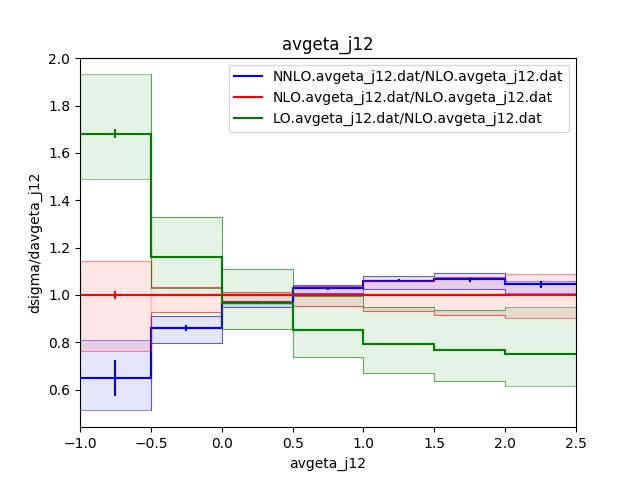
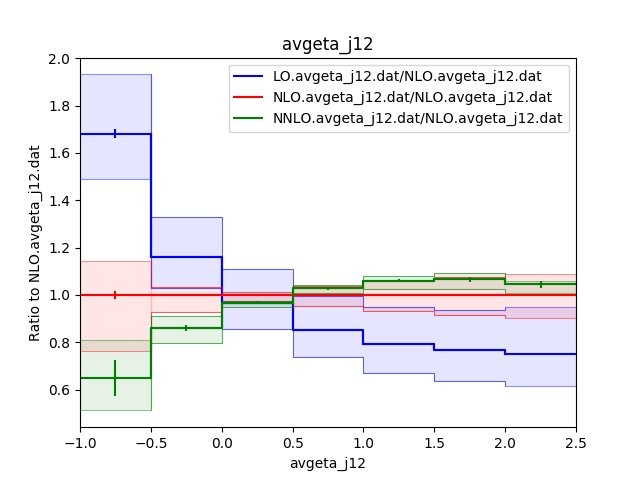
Added log plots, grid options for plotting

diff --git a/nnlojet_plot.py b/nnlojet_plot.py
@@ -19,11 +19,21 @@ PLOT_MODES = {"hist": pt.do_hist_plot,
 def read_args():
     """ Function wrapping all command line argument parsing. """
     parser = ap.ArgumentParser(description="NNLOJET data functionality.")
-    parser.add_argument("infiles", help="NNLOJET infile(s) to plot.", nargs="+")
-    parser.add_argument("--mode", "-m", help="Plot mode: histogram plot or line plot",
+    parser.add_argument("infiles",
+                        help="NNLOJET infile(s) to plot.", nargs="+")
+    parser.add_argument("--mode", "-m",
+                        help="Plot mode: histogram plot or line plot",
                         choices=PLOT_MODES.keys(), default="hist")
-    parser.add_argument("--ratio", "-r", help="Plot the ratio of all input files to this file")
-    parser.add_argument("--savefig", "-s", help="Save figure to file with given name")
+    parser.add_argument("--ratio", "-r",
+                        help="Plot the ratio of all input files to this file")
+    parser.add_argument("--grid", "-g", action="store_true",
+                        help="Add a grid to the plot")
+    parser.add_argument("--savefig", "-s",
+                        help="Save figure to file with given name")
+    parser.add_argument("--logx", action="store_true",
+                        help="Plot output with logarithmic x values")
+    parser.add_argument("--logy", action="store_true",
+                        help="Plot output with logarithmic y values")
     args = parser.parse_args()
     return args
 
@@ -36,7 +46,8 @@ def colour_gen():
 
 
 def plot_scale_variation(df, ax=None, colour="blue", name="Central Scale",
-                         mode="hist"):
+                         mode="hist", ylabel=None, grid=False, logx=False,
+                         logy=False):
     """ Example plot function, with choice of histogram or line type plot.
     plt.show() must be called afterwards."""
     if ax is None:
@@ -48,7 +59,16 @@ def plot_scale_variation(df, ax=None, colour="blue", name="Central Scale",
     x_mid_name = "_".join(x_mid.split("_")[:-1])
     ax.set_xlabel(x_mid_name)
     ax.set_title(x_mid_name)
-    ax.set_ylabel("dsigma/d{0}".format(x_mid_name))
+    if ylabel is None:
+        ax.set_ylabel("dsigma/d{0}".format(x_mid_name))
+    else:
+        ax.set_ylabel(ylabel)
+    if grid:
+        ax.grid()
+    if logx:
+        ax.set_xscale("log", nonposx='clip')
+    if logy:
+        ax.set_yscale("log", nonposy='clip')
     plt.legend()
 
 
@@ -62,10 +82,12 @@ if __name__ == "__main__":
         alldata[NNLOJETfile] = data
         plot_scale_variation(data, ax, colour=next(colours),
                              name=os.path.basename(NNLOJETfile),
-                             mode=args.mode)
+                             mode=args.mode, grid=args.grid, logy=args.logy,
+                             logx=args.logx)
 
     if args.savefig is not None:
         plt.savefig(args.savefig)
+
     if args.ratio is not None:
         colours = colour_gen()
         fig, ax = plt.subplots()
@@ -75,11 +97,14 @@ if __name__ == "__main__":
             ratio_df = util.ratio_NNLOJET_files(values, baseline)
             fname = "{0}/{1}".format(os.path.basename(fname),
                                      os.path.basename(args.ratio))
+            ylabel = "Ratio to {0}".format(os.path.basename(args.ratio))
             plot_scale_variation(ratio_df, ax, colour=next(colours),
-                                 name=fname,
-                                 mode=args.mode)
+                                 name=fname, mode=args.mode, ylabel=ylabel,
+                                 grid=args.grid, logx=args.logx)
+
     if args.savefig is not None:
         name_pieces = args.savefig.split(".")
         ratio_fname = ".".join(name_pieces[:-1])+"_ratio." + name_pieces[-1]
         plt.savefig(ratio_fname)
+
     plt.show()

diff --git a/utilities.py b/utilities.py
@@ -5,7 +5,7 @@ import numpy as np
 def load_NNLOJET_file(infile):
     """ Reads in NNLOJET file <infile> and returns a formatted
     dataframe with the contents of the file."""
-    df = pd.read_csv(infile, sep=" ", header=0, skipfooter=1)
+    df = pd.read_csv(infile, sep=" ", header=0, skipfooter=1, engine='python')
     df.columns = df.columns[1:].append(pd.Index(["IGNORE"]))
     df.columns = pd.Index(i.split("[")[0] for i in df.columns)
     leading_column = df.columns[0]
